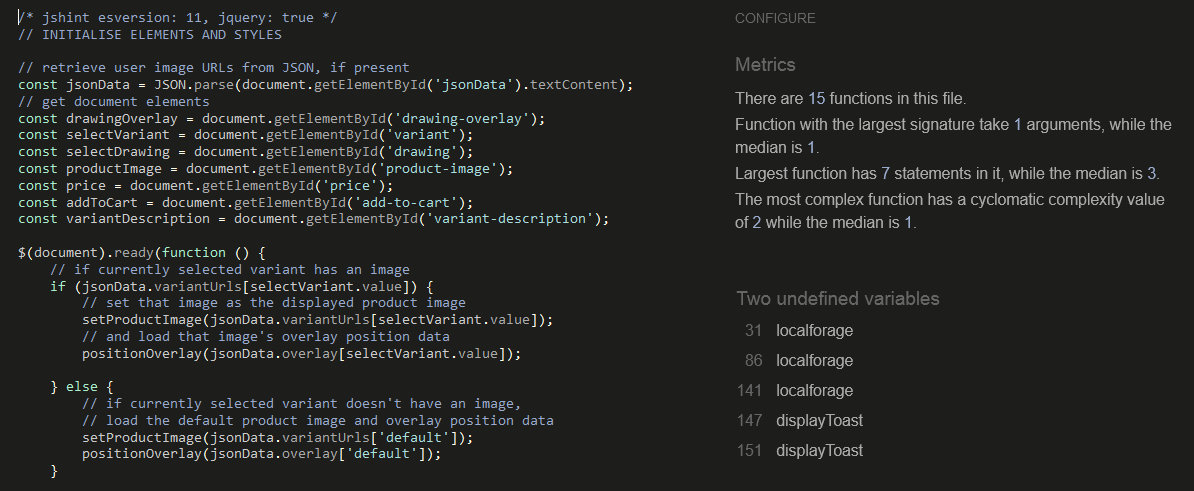
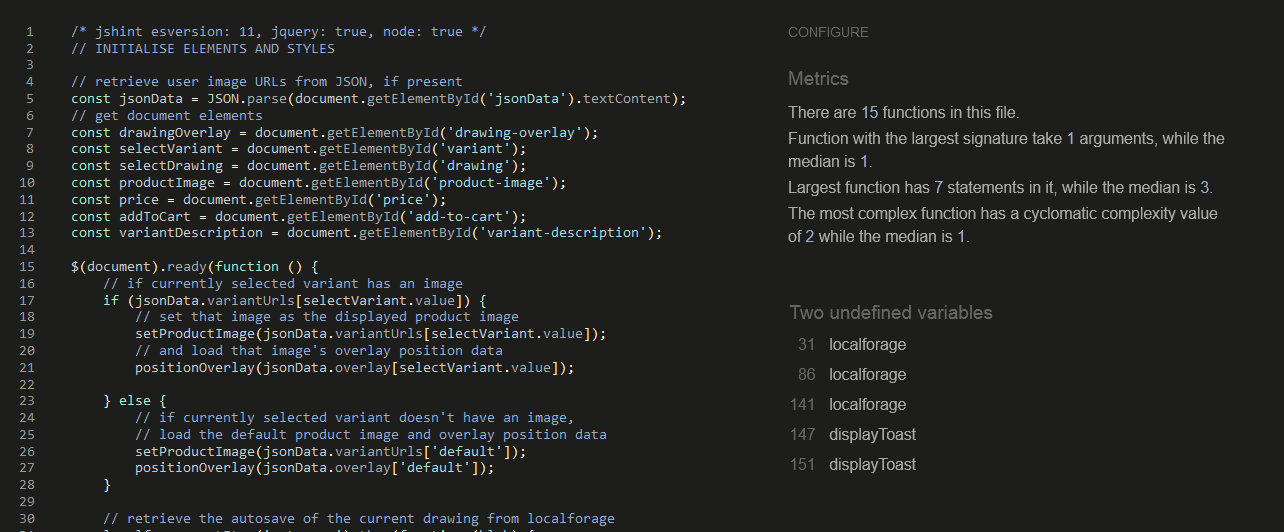
Update javascript validation section

diff --git a/TESTING.md b/TESTING.md
@@ -13,7 +13,7 @@
 
 All pages validated with no warnings or errors. 
 
-As the navbar renders differet content depending on whether a user is logged out, logged in, or logged in as staff, I tested it in each of the three states.
+As the navbar renders different content depending on whether a user is logged out, logged in, or logged in as staff, I tested it in each of the three states.
 
 |             **Page**             |                                 **Screenshot**                                |
 |:--------------------------------:|:-----------------------------------------------------------------------------:|
@@ -66,17 +66,18 @@ The validator returned 28 warnings for tour.css. All warnings were related to th
 
 All the project javascript files validated with no errors. 
 
-|       File       |                               **Screenshot**                              |                                                       **Notes**                                                       |
-|:----------------:|:-------------------------------------------------------------------------:|:---------------------------------------------------------------------------------------------------------------------:|
-| productImage.js  | ![](documentation/testing_images/validation/javascript/productImage.jpg)  |                                                                                                                       |
-| logout.js        | ![](documentation/testing_images/validation/javascript/logout.jpg)        | One undefined variable: localforage                                                                                   |
-| cart.js          | ![](documentation/testing_images/validation/javascript/cart.jpg)          | One undefined variable: localforage                                                                                   |
-| notifications.js | ![](documentation/testing_images/validation/javascript/notifications.jpg) | One undefined variable: bootstrap                                                                                     |
-| checkout.js      | ![](documentation/testing_images/validation/javascript/orders.jpg)        | Three undefined variables: Stripe, localforage, displayToast                                                          |
-| prints.js        | ![](documentation/testing_images/validation/javascript/prints.jpg)        | Two undefined variables: localforage, displayToast                                                                    |
-| sketchbook.js    | ![](documentation/testing_images/validation/javascript/sketchbook.jpg)    | Eight undefined variables - Atrament, Coloris, bootstrap, localforage, displayToast, introJs, tourMobile, tourDesktop |
-| tour.js          | ![](documentation/testing_images/validation/javascript/tour.jpg)          | Two unused variables: tourMobile, tourDesktop                                                                         |
-
+|          **File**         |                                 **Screenshot**                                 |                                                       **Notes**                                                       |
+|:-------------------------:|:------------------------------------------------------------------------------:|:---------------------------------------------------------------------------------------------------------------------:|
+|    **productImage.js**    | ![](documentation/testing_images/validation/javascript/productImage.jpg)       |                                                                                                                       |
+|       **logout.js**       | ![](documentation/testing_images/validation/javascript/logout.jpg)             | One undefined variable: localforage                                                                                   |
+|        **cart.js**        | ![](documentation/testing_images/validation/javascript/cart.jpg)               | One undefined variable: localforage                                                                                   |
+|    **notifications.js**   | ![](documentation/testing_images/validation/javascript/notifications.jpg)      | One undefined variable: bootstrap                                                                                     |
+| **notifications.test.js** | ![](documentation/testing_images/validation/javascript/notifications-test.jpg) | Three undefined variables: describe, test, expect                                                                     |
+|      **checkout.js**      | ![](documentation/testing_images/validation/javascript/orders.jpg)             | Three undefined variables: Stripe, localforage, displayToast                                                          |
+|       **prints.js**       | ![](documentation/testing_images/validation/javascript/prints.jpg)             | Two undefined variables: localforage, displayToast                                                                    |
+|     **prints.test.js**    | ![](documentation/testing_images/validation/javascript/prints-test.jpg)        | Four undefined variables: beforeAll, describe, test, expect                                                           |
+|     **sketchbook.js**     | ![](documentation/testing_images/validation/javascript/sketchbook.jpg)         | Eight undefined variables: Atrament, Coloris, bootstrap, localforage, displayToast, introJs, tourMobile, tourDesktop |
+|        **tour.js**        | ![](documentation/testing_images/validation/javascript/tour.jpg)               | Two unused variables: tourMobile, tourDesktop                                                                         |
 
 In various combinations, the validator returned 'undefined variable' warnings about the following objects:
 
@@ -84,9 +85,10 @@ In various combinations, the validator returned 'undefined variable' warnings ab
 * Stripe - This comes from the Strip javascript files which provide the payment system. It is loaded in the base template. 
 * Coloris - This comes from the Coloris library which is used to provide the colour mixer. It is loaded in the sketchbook page template.
 * bootstrap -  This comes from Bootstrap 5 and is loaded in the base template.
-* localforage - This come from the localforage library which is used to manage local storage of files and variables. It is loaded in the base template.
+* localforage - This comes from the localforage library which is used to manage local storage of files and variables. It is loaded in the base template.
 * displayToast -  This is a function I wrote to display notifications. It is defined in notifications.js and loaded in the base template.
-* introJs - This come from the library used to implement the homepage tour. It is loaded in the base template.
+* introJs - This comes from the library used to implement the homepage tour. It is loaded in the base template.
+* beforeAll, describe, test, expect - These are all functions defined by the Jest testing framework and used to define Javascript tests. 
 
 The validator returned two 'unused variable' warnings about the tourMobile and tourDesktop objects in the tour.js file. These objects define the homepage tours. They are imported to the sketchbook.js file and used there.
 
@@ -94,7 +96,7 @@ The validator returned two 'unused variable' warnings about the tourMobile and t
 
 I made [a fork](https://github.com/lmjh/atrament.js/) of the Atrament library in order to make some needed changes. I replaced the mouse and touch events and handlers used by the library with pointer events and handlers, to fix a bug caused by the use of touch events (details of this can be found in the [bugs document](BUGS.md) under "Atrament Canvas Mobile Touch Draw Bug"). I also added a colour picker tool, as the default library didn't include one.
 
-I only made changes to the Atrament library's atrament.js and pointer.js files, but for completeness I have validated all the source files in my fork of the Atrament library. I used the 'node: true' jshint setting when validation these files as they use the node.js objects require() and module(). 
+I only made changes to the Atrament library's atrament.js and pointer.js files, but for completeness I have validated all the source files in my fork of the Atrament library. I used the 'node: true' jshint setting when validating these files as they use the node.js objects require() and module(). 
 
 The file 'atrament.min.js' in the Sketchbook app javascript folder is a minified file that was compiled by [webpack](https://webpack.js.org/) from the source files in my fork of the Atrament library. It will not pass validation as it has been 'minified' by webpack. All of the actual source files do pass validation without issue.
 
